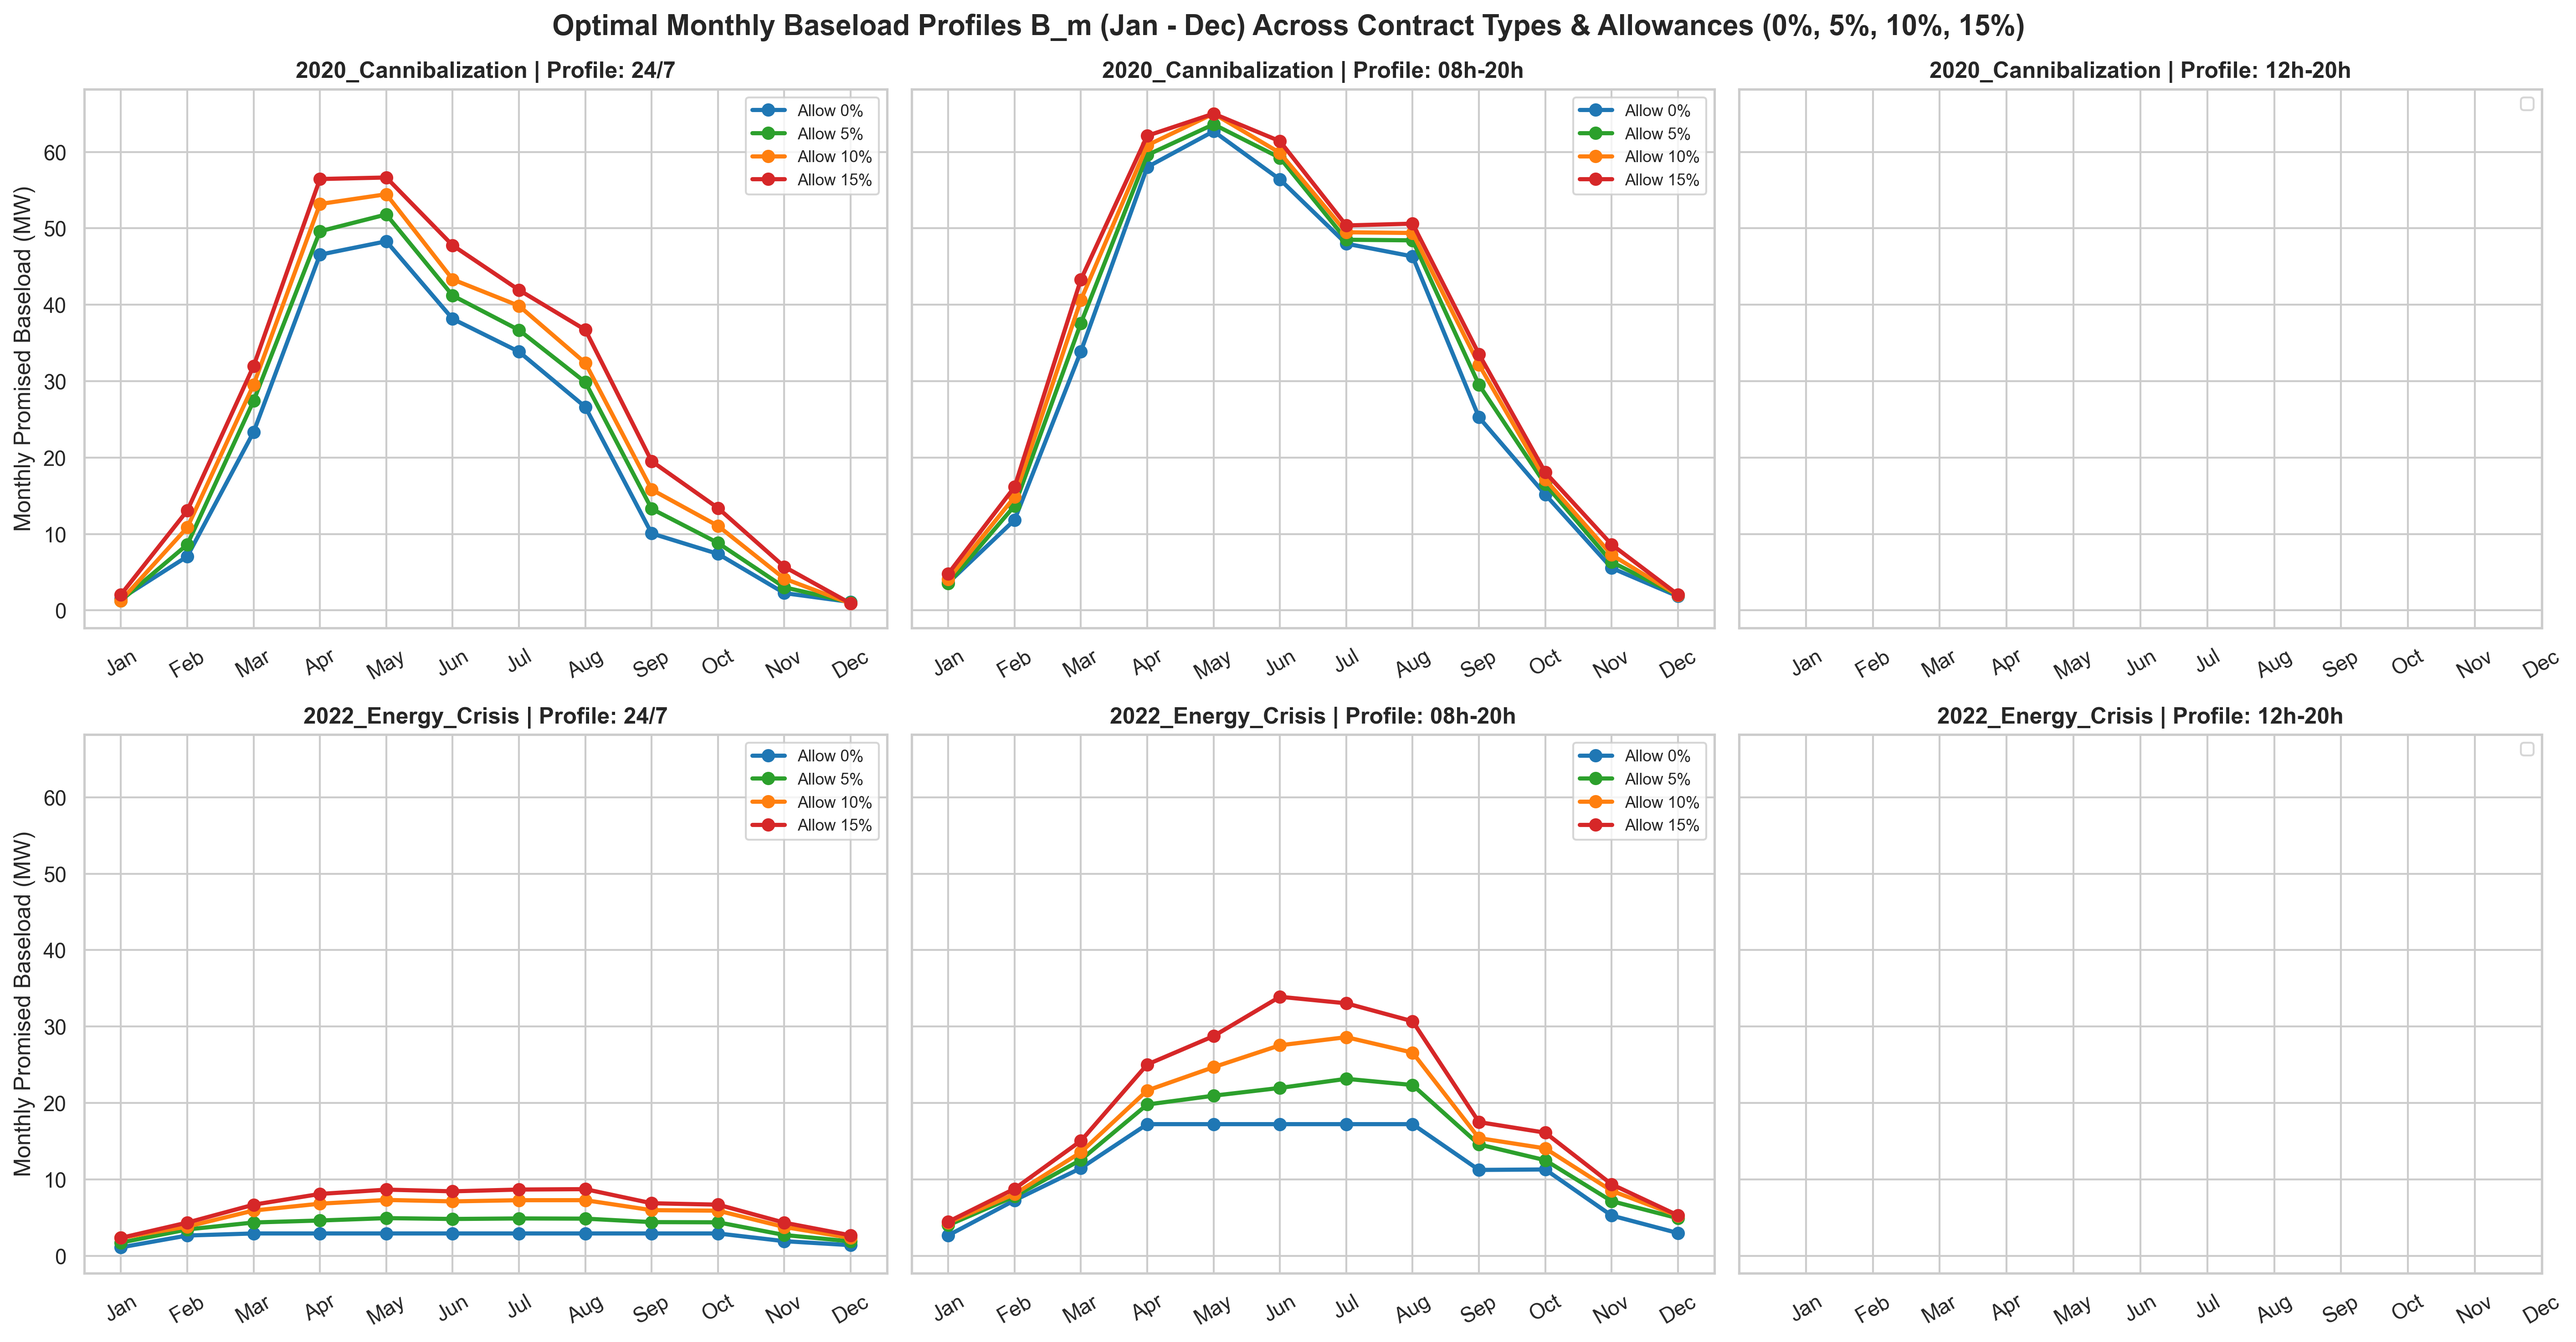
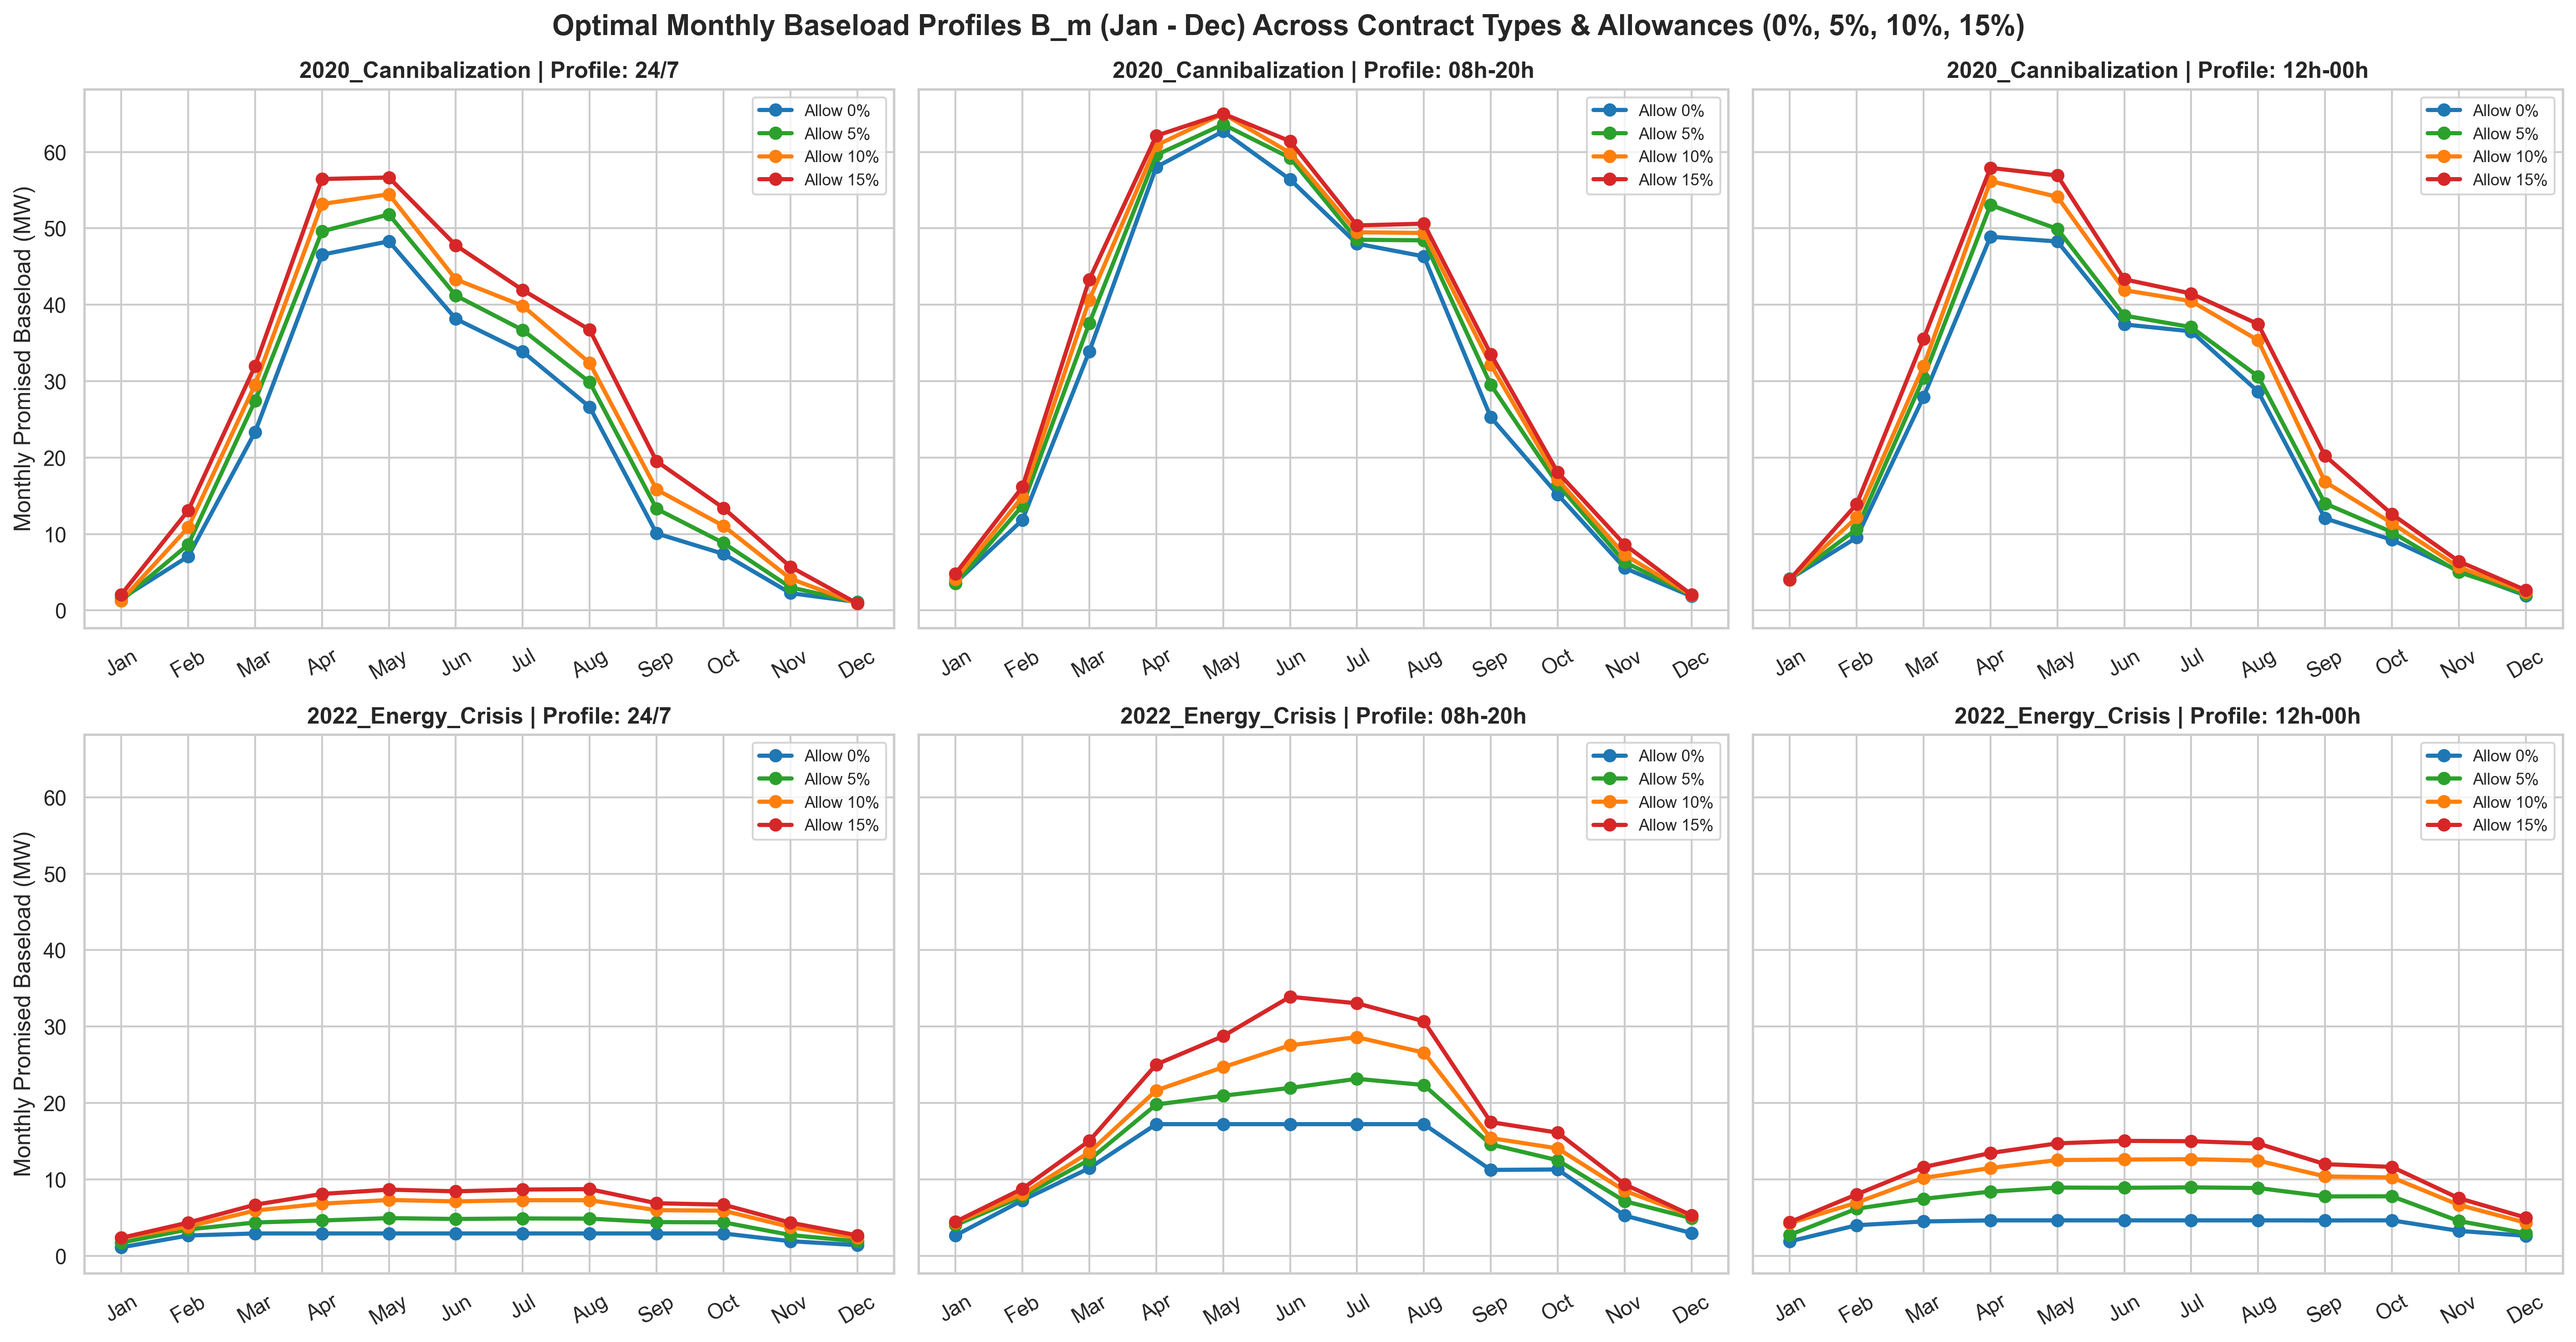
plots uploaded 2

diff --git a/Stochastic MILP/src/plotting.py b/Stochastic MILP/src/plotting.py
@@ -331,7 +331,7 @@ def plot_deterministic_benchmark_2020_2022(
     months = np.arange(1, 13)
     month_labels = ["Jan", "Feb", "Mar", "Apr", "May", "Jun", "Jul", "Aug", "Sep", "Oct", "Nov", "Dec"]
 
-    ppa_profiles = ["24/7", "08h-20h", "12h-20h"]
+    ppa_profiles = ["24/7", "08h-20h", "12h-00h"]
     regimes = ["2020_Cannibalization", "2022_Energy_Crisis"]
     df_shapes = pd.DataFrame(monthly_shapes_records)
 
